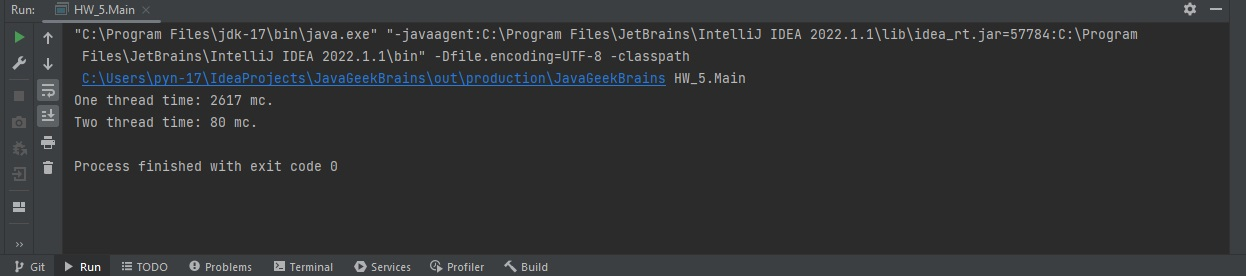
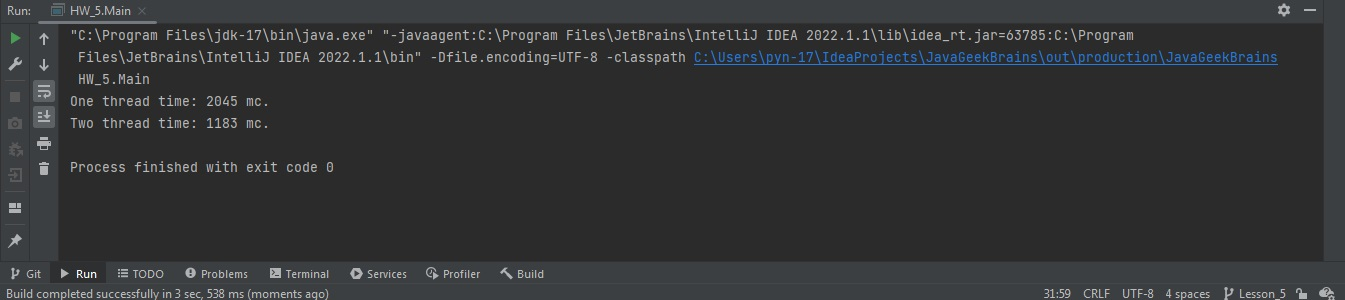
Changed HW-5

diff --git a/Level_2/Lesson_5/HW_5/Main.java b/Level_2/Lesson_5/HW_5/Main.java
@@ -12,15 +12,11 @@ public class Main {
 
         firstMethod(array);
         secondMethod(array);
-
     }
 
     public static void firstMethod(float[] array) {
         long a = System.currentTimeMillis();
-        for (int i = 0; i < array.length; i++) {
-            array[i] = (float) (array[i] * Math.sin(0.2f + i / 5) * Math.cos(0.2f + i / 5) *
-                    Math.cos(0.4f + i / 2));
-        }
+        setValue(array, 0f);
         System.currentTimeMillis();
         System.out.println("One thread time: " + (System.currentTimeMillis() - a) + " mc.");
     }
@@ -33,15 +29,17 @@ public class Main {
         System.arraycopy(array, 0, leftHalf, 0, HALF);
         System.arraycopy(array, HALF, rightHalf, 0, HALF);
 
-        Thread thread1 = new Thread(() -> {
-            setValue(leftHalf);
-        });
-
-        Thread thread2 = new Thread(() -> {
-            setValue(rightHalf);
-        });
+        Thread thread1 = new Thread(() -> setValue(leftHalf, 0f));
+        Thread thread2 = new Thread(() -> setValue(rightHalf, rightHalf[0]));
         thread1.start();
         thread2.start();
+
+        try {
+            thread1.join();
+            thread2.join();
+        } catch (InterruptedException e) {
+            throw new RuntimeException(e);
+        }
 
         float[] mergedArray = new float[SIZE];
         System.arraycopy(leftHalf, 0, mergedArray, 0, HALF);
@@ -49,16 +47,14 @@ public class Main {
 
         System.currentTimeMillis();
         System.out.println("Two thread time: " + (System.currentTimeMillis() - a) + " mc.");
-
     }
 
-    public static void setValue(float[] array) {
+    public static void setValue(float[] array, float number) {
         for (int i = 0; i < array.length; i++) {
-            array[i] = (float) (array[i] * Math.sin(0.2f + i / 5) * Math.cos(0.2f + i / 5) *
-                    Math.cos(0.4f + i / 2));
+            array[i] = (float) (array[i] * Math.sin(0.2f + (i + number) / 5) * Math.cos(0.2f + (i + number) / 5) *
+                    Math.cos(0.4f + (i + number) / 2));
         }
     }
-
 }
 
 
